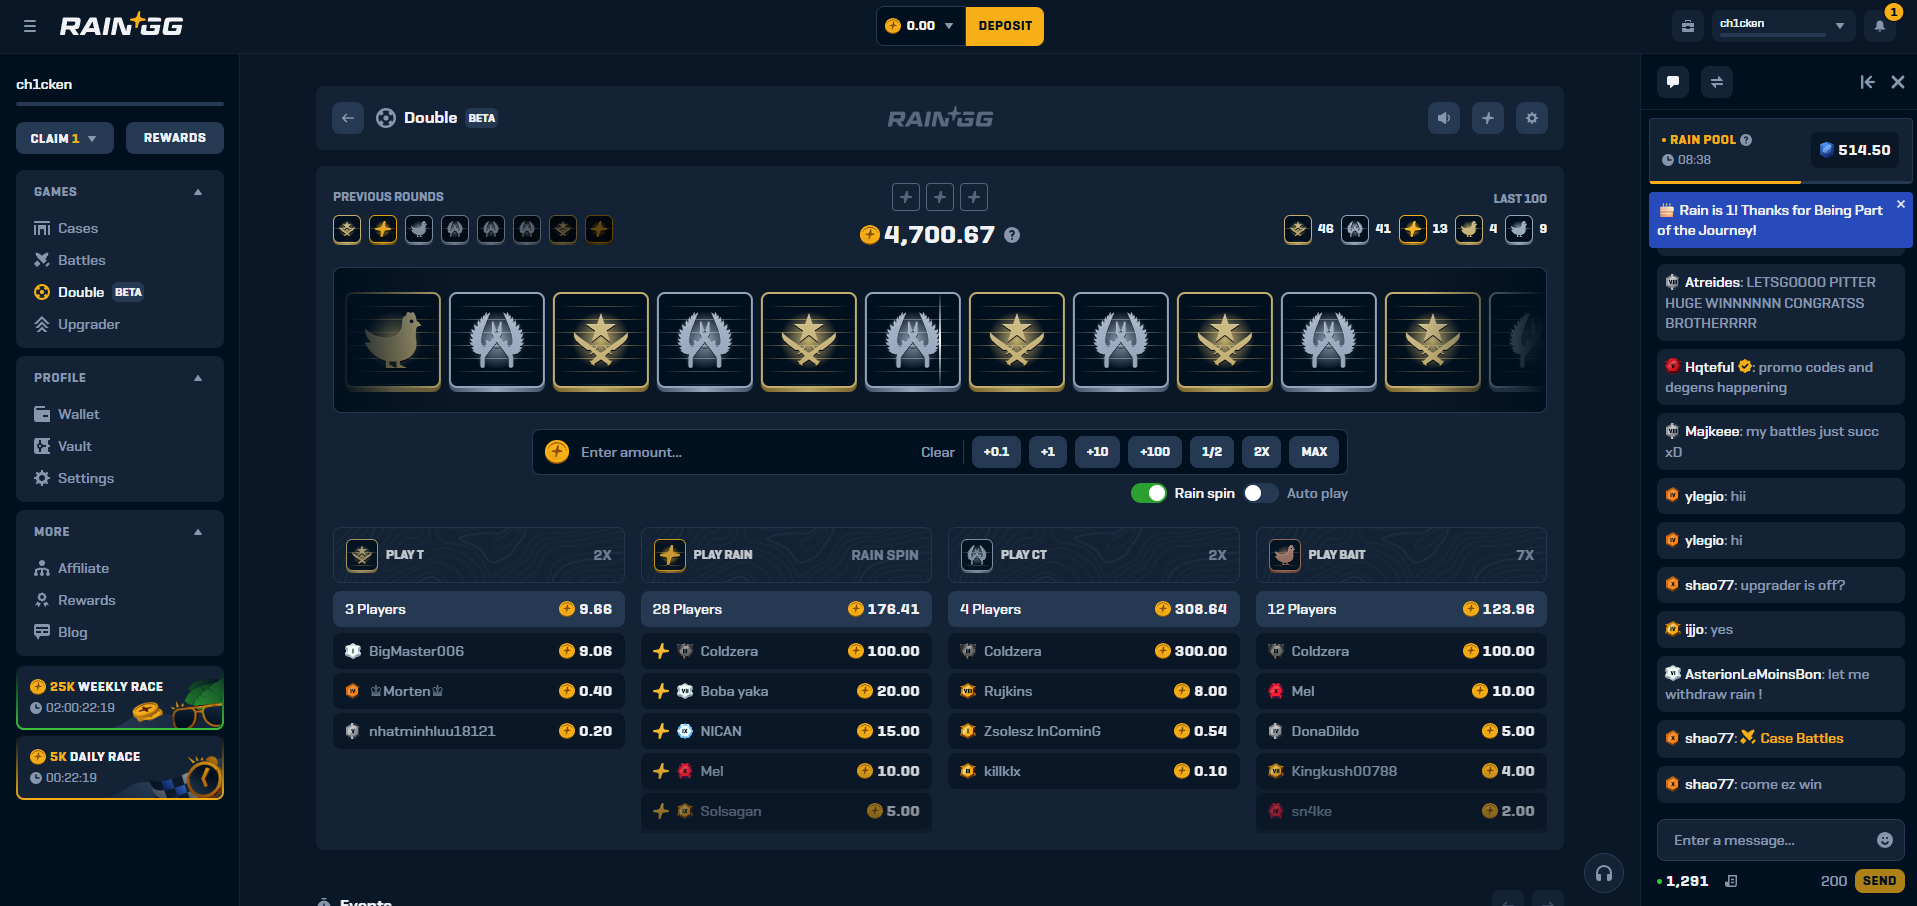
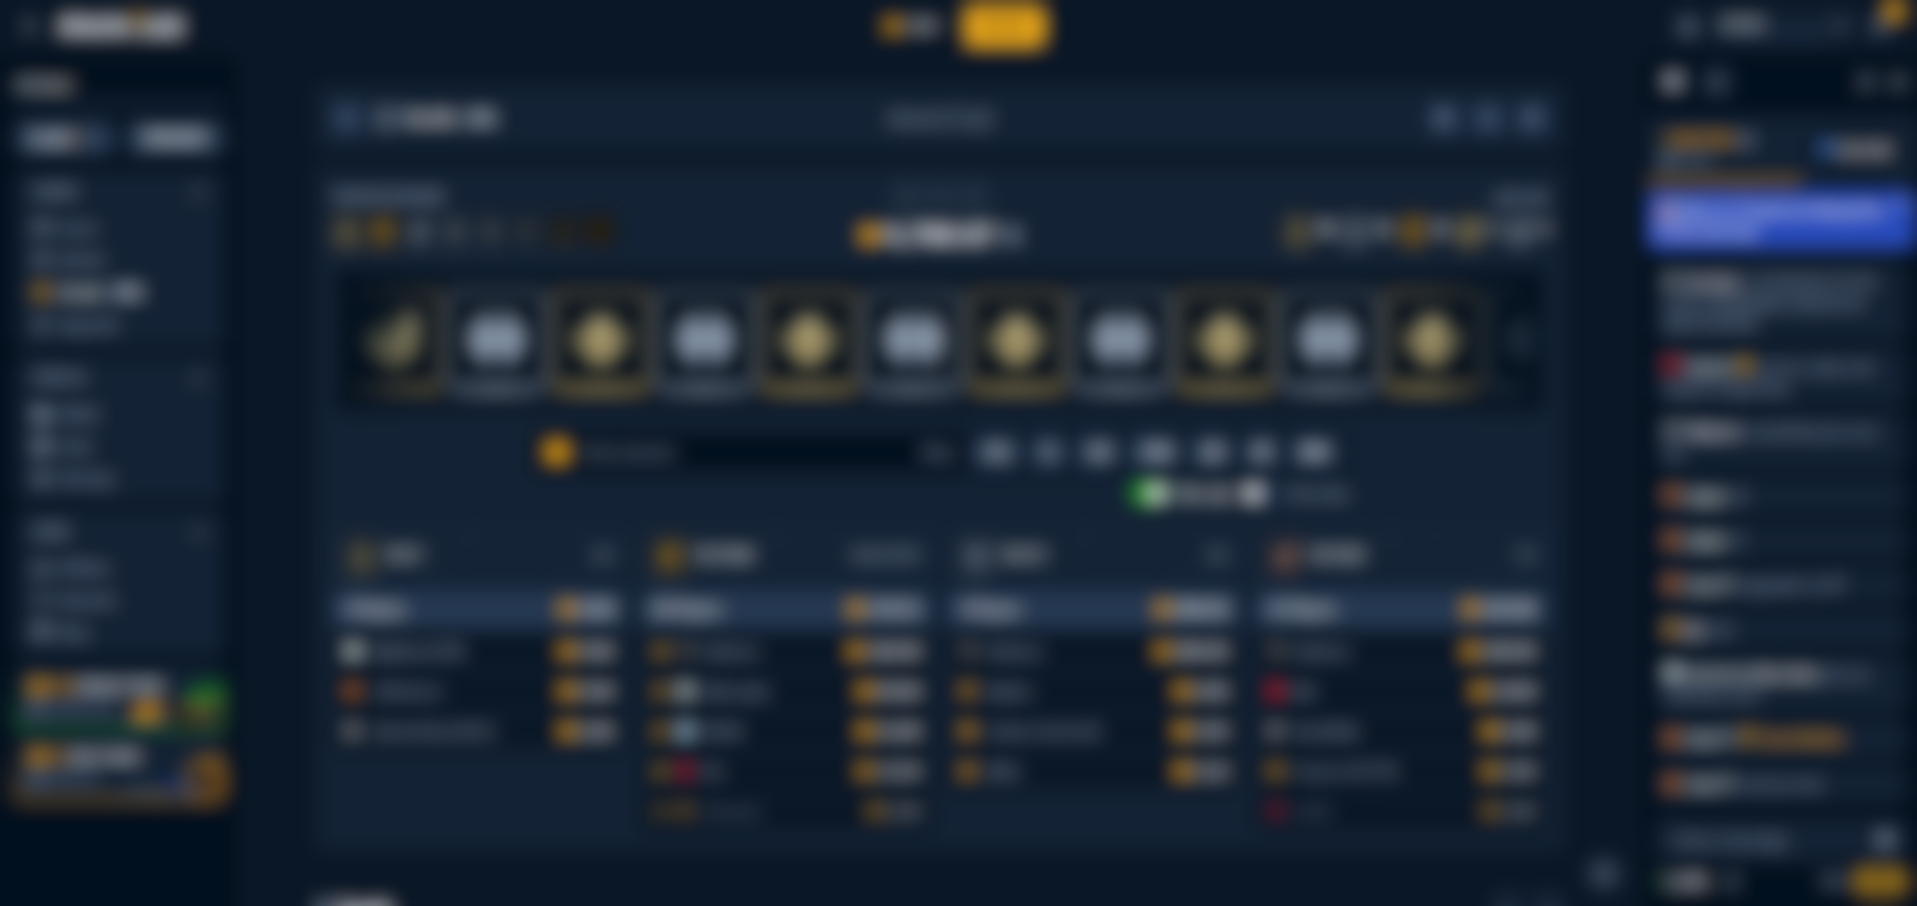
pre-blurred images

diff --git a/app/page.tsx b/app/page.tsx
@@ -72,7 +72,7 @@ export default function LandingPage() {
                                             src="/skeleton-roll.png"
                                             alt="OddsViewer Chrome extension showing odds on a gambling site"
                                             fill
-                                            className="object-cover blur-sm"
+                                            className="object-cover"
                                         />
                                         <div className="absolute bottom-4 right-4 rounded-md bg-purple-500 px-2 py-1 text-xs font-medium text-white shadow-lg">
                                             True Odds: 48.2%
@@ -374,7 +374,7 @@ export default function LandingPage() {
                                             src="/skeleton-rain.png"
                                             alt="OddsViewer Chrome extension showing odds on Rain.gg"
                                             fill
-                                            className="object-cover blur-sm"
+                                            className="object-cover"
                                         />
                                         <div className="absolute bottom-4 right-4 rounded-md bg-purple-500 px-2 py-1 text-xs font-medium text-white shadow-lg">
                                             True Odds: 32.7%
